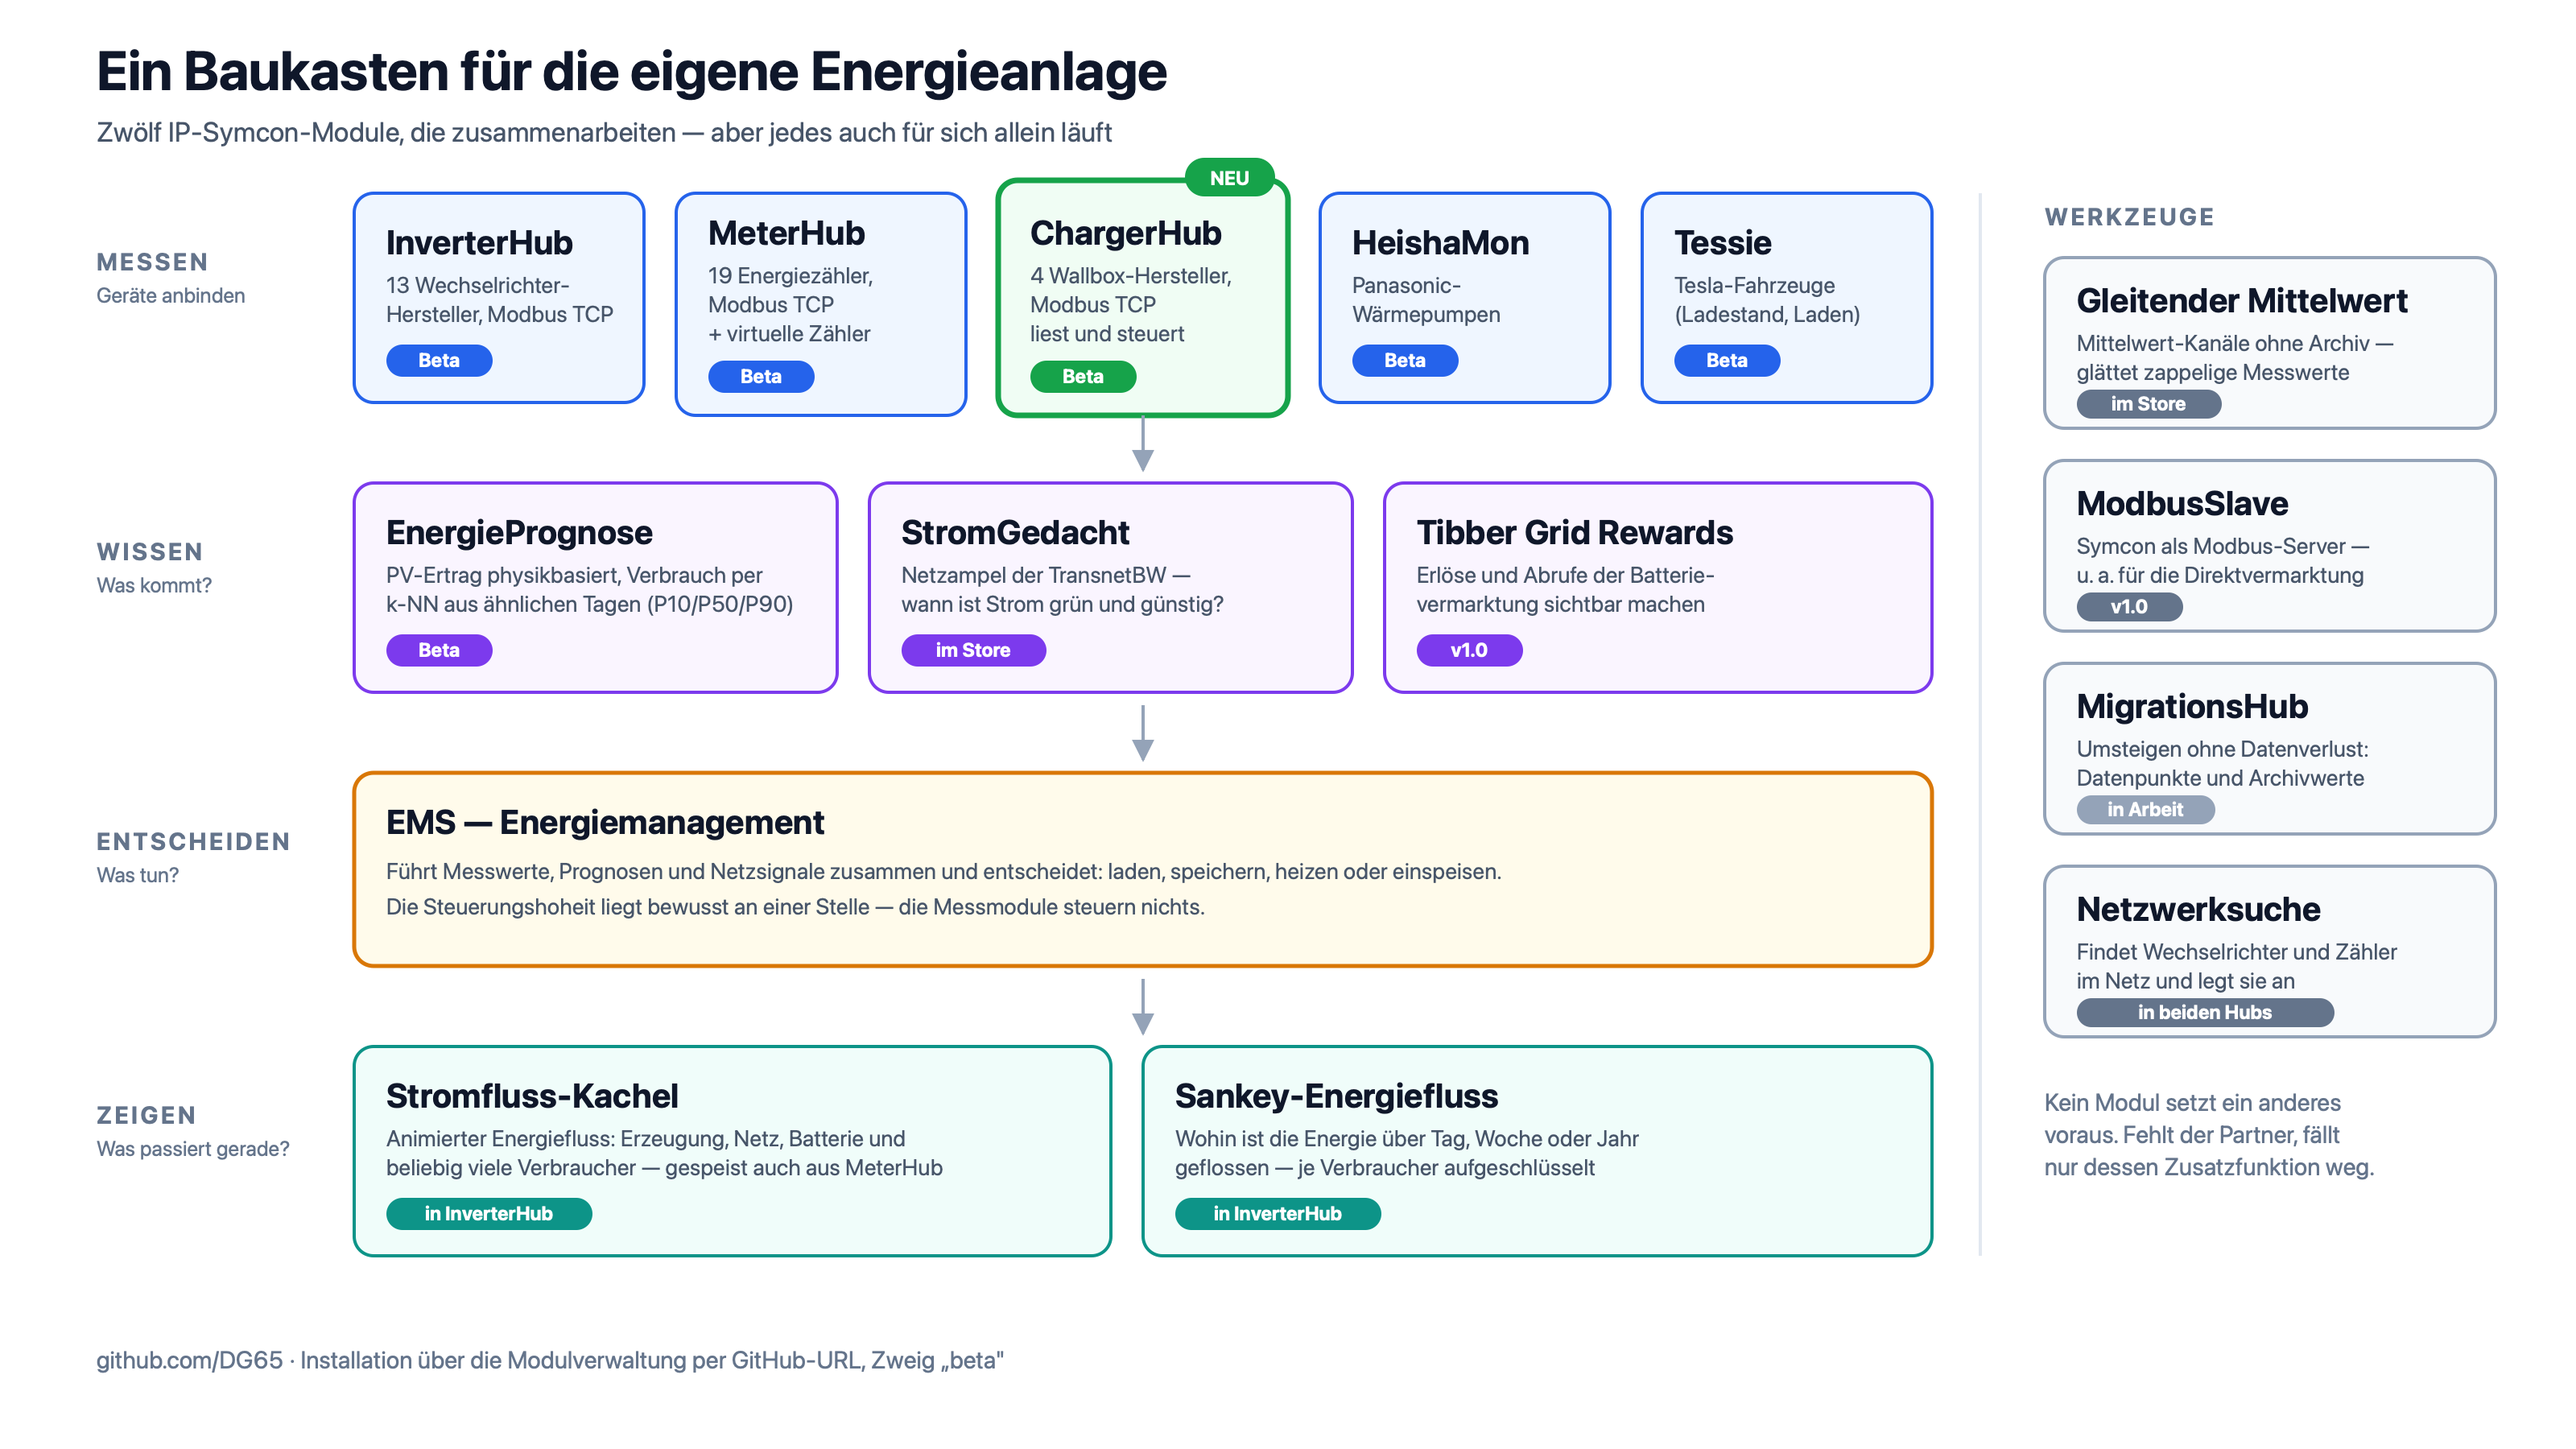
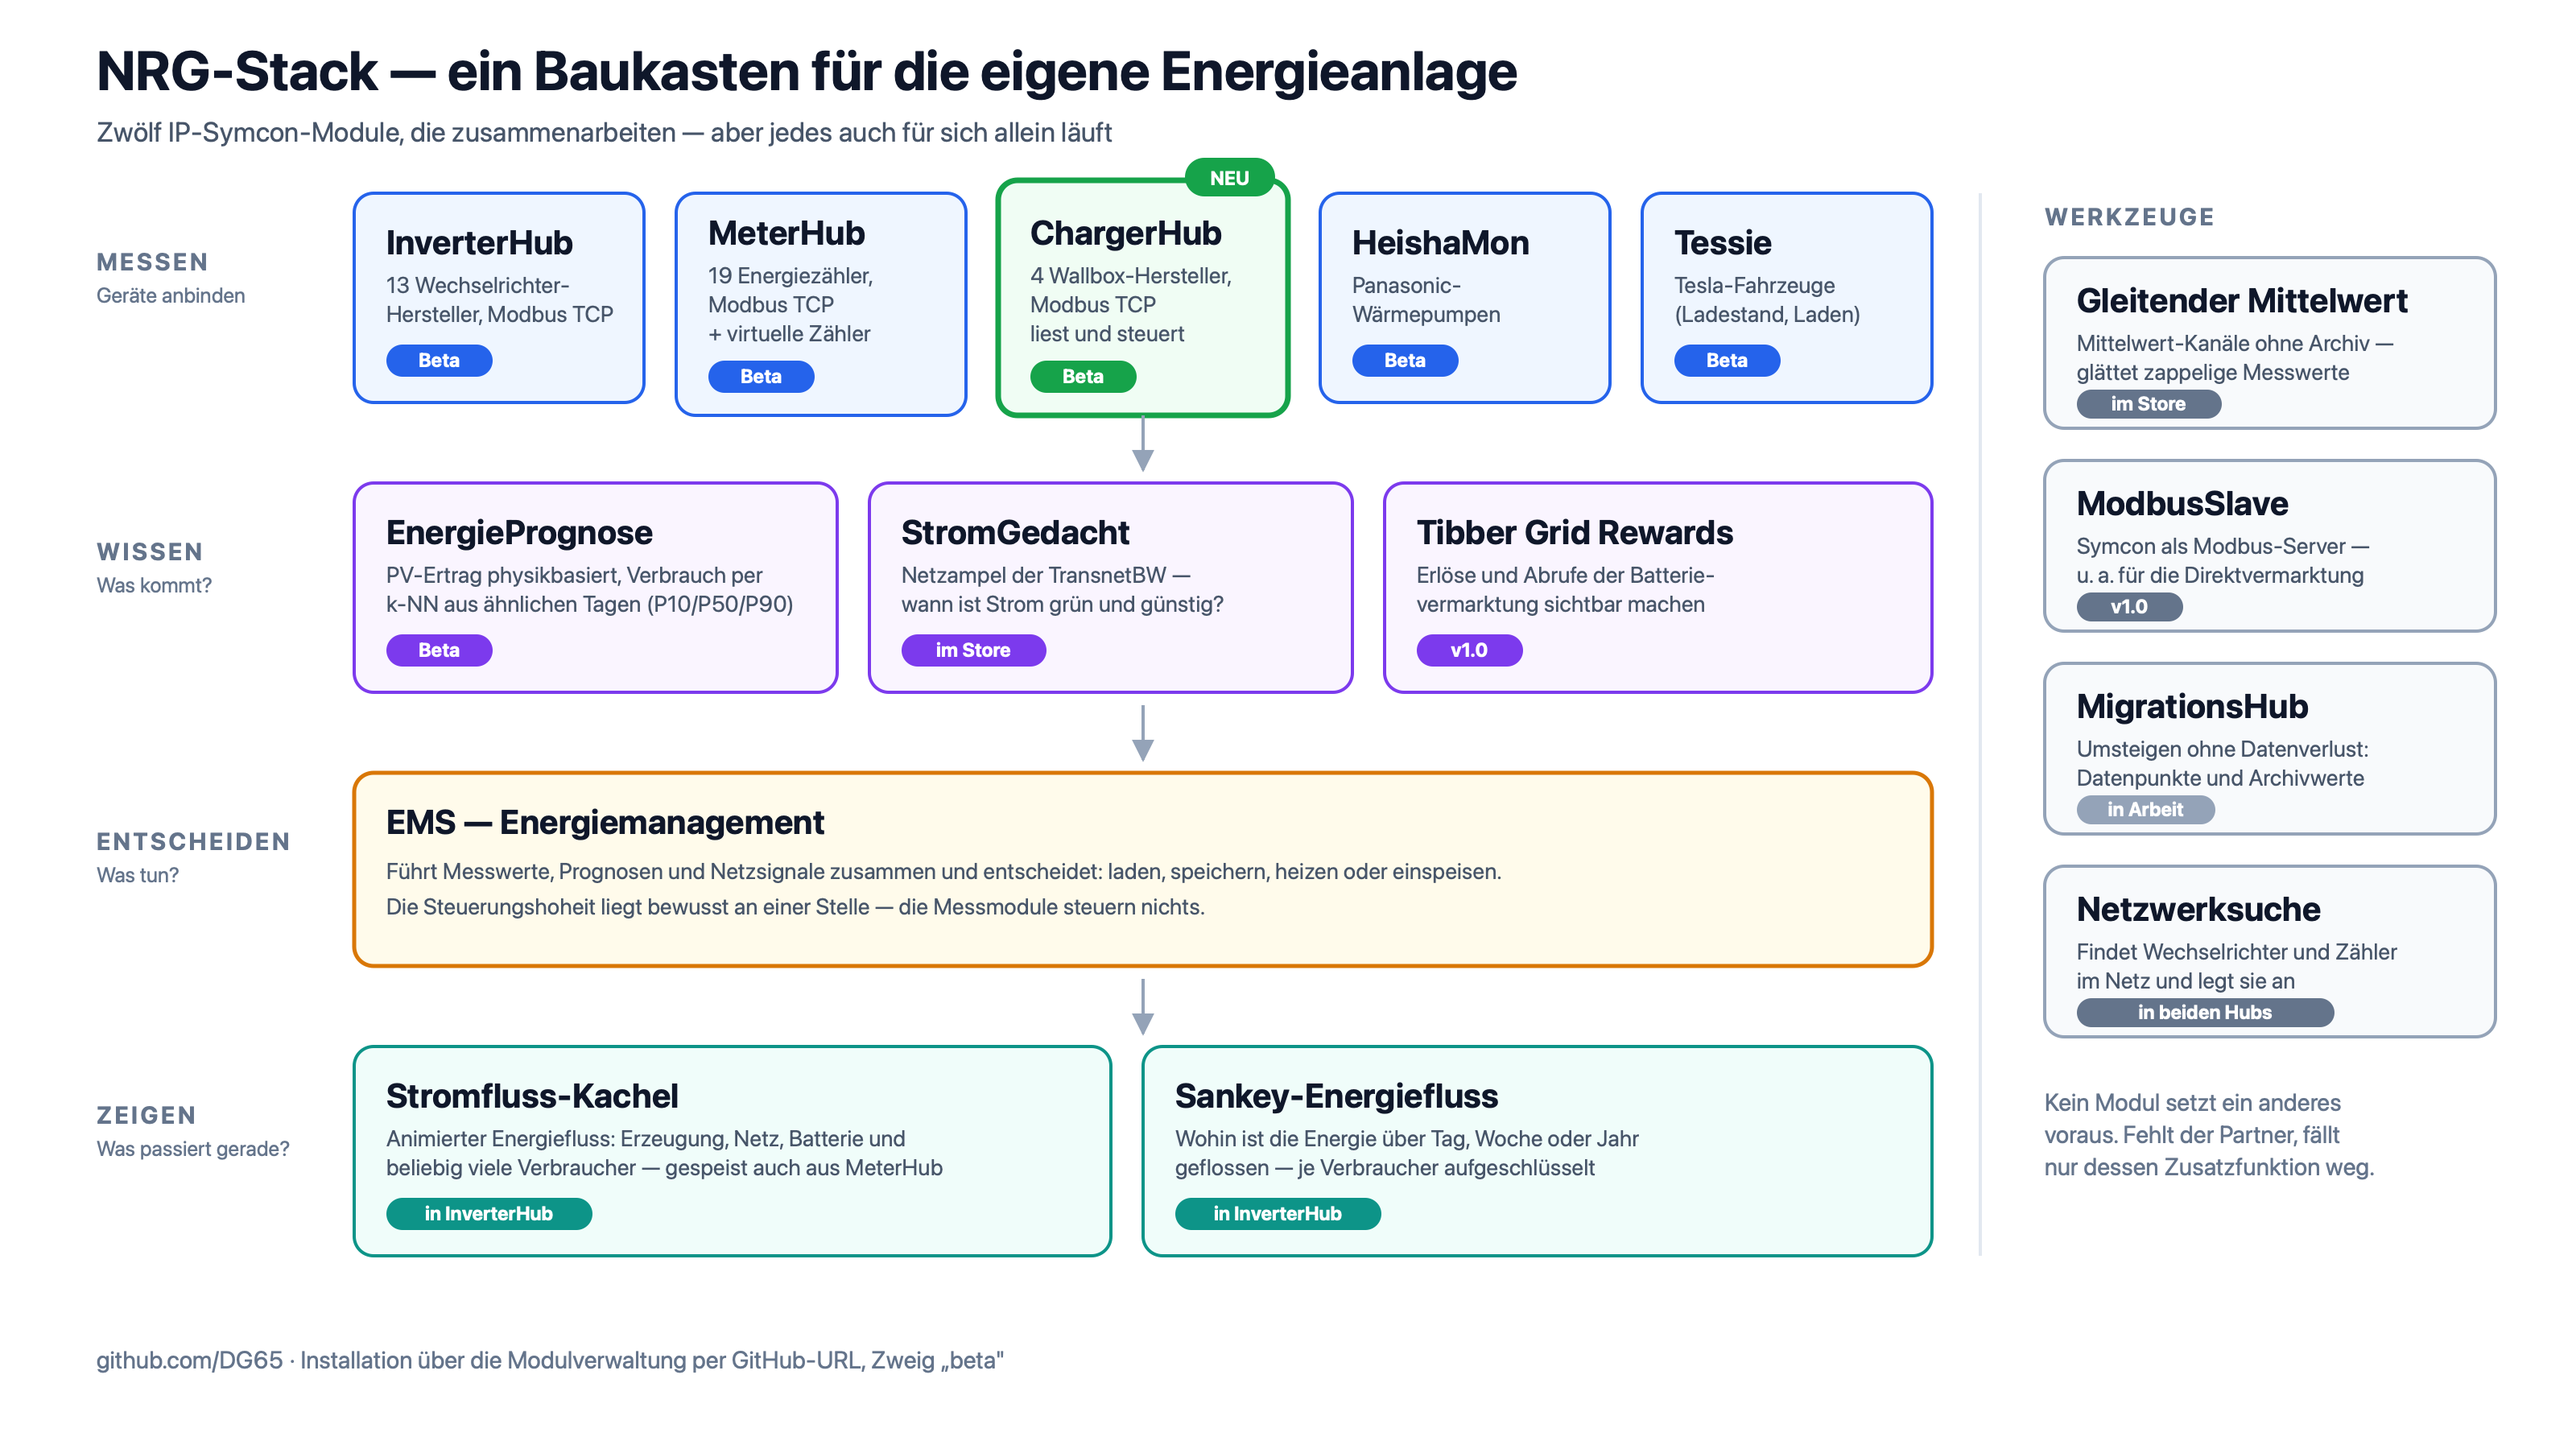
Dachmarke NRG-Stack: README, Forum-Entwurf und Suite-Grafik umgestellt
Verbund-Entscheidung Dietmar (23.07.2026): der Verbund heisst nach aussen
NRG-Stack; "DG65" bleibt Hersteller/Org.
- README-Suite-Zeile auf kanonischen Wortlaut "Teil des NRG-Stack".
- Forum-Entwurf: Abschnitt "Die Modulfamilie: der NRG-Stack" + SUITE.md-Link.
- Suite-Grafik (SVG + PNG neu gerendert): Titel "NRG-Stack — ein Baukasten
  fuer die eigene Energieanlage".
Idents/Vertraege/Klassennamen unberuehrt, nur Doku/Anzeige.

Changed region(s): [[0.0312, 0.0311, 0.5938, 0.0622]]

diff --git a/.forum/ankuendigung.md b/.forum/ankuendigung.md
@@ -139,11 +139,13 @@ Wer eine Modbus-Adressliste oder eine funktionierende Symcon-Vorlage hat: her da
 nicht — falsche Registeradressen liefern still falsche Werte, und bei einem Gerät, das 11 kW
 schaltet, ist das keine akademische Frage.
 
-## Die Modulfamilie
+## Die Modulfamilie: der NRG-Stack
 
-ChargerHub steht nicht allein. Über die Zeit ist ein ganzer Baukasten entstanden, dessen Teile
-zusammenarbeiten — aber **jedes Modul läuft auch für sich**. Es gibt keine Pflichtabhängigkeiten:
-Fehlt der Partner, fällt nur dessen Zusatzfunktion weg.
+ChargerHub steht nicht allein. Über die Zeit ist ein ganzer Baukasten entstanden — der
+**NRG-Stack** —, dessen Teile zusammenarbeiten, aber **jedes Modul läuft auch für sich**. Es gibt
+keine Pflichtabhängigkeiten: Fehlt der Partner, fällt nur dessen Zusatzfunktion weg. Welche
+Modulstände zusammen getestet sind, listet
+[SUITE.md](https://github.com/DG65/EMS/blob/main/SUITE.md).
 
 > **[hier `suite.png` einfügen]**
 

diff --git a/README.md b/README.md
@@ -4,7 +4,7 @@ IP-Symcon-Modul für Wallboxen (Ladestationen für Elektrofahrzeuge) verschieden
 per Modbus TCP — analog zu [InverterHub](https://github.com/DG65/InverterHub) (Wechselrichter)
 und [MeterHub](https://github.com/DG65/MeterHub) (Energiezähler).
 
-Teil der DG65 Energie-Suite — welche Modulstände zusammenpassen, listet
+Teil des **NRG-Stack** — welche Modulstände zusammenpassen, listet
 [SUITE.md](https://github.com/DG65/EMS/blob/main/SUITE.md).
 
 **Status: Beta.** Die Register-Zuordnungen basieren auf den öffentlich verfügbaren
